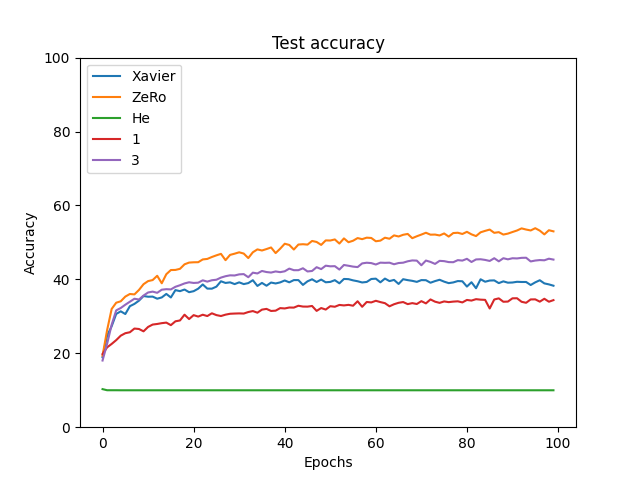
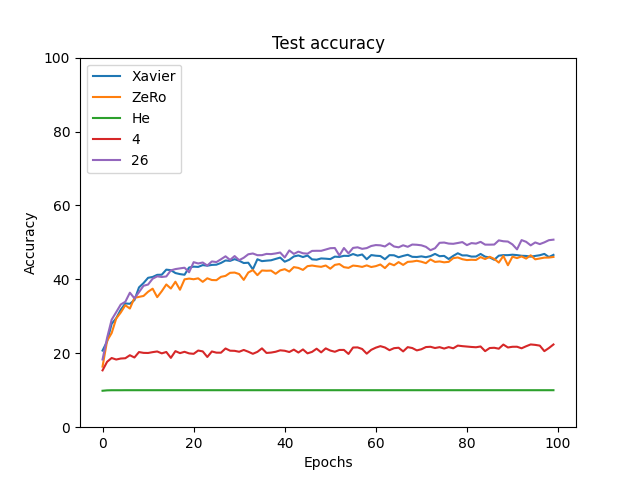
Looking at the affect of corruption on mnist dataset for accuracy

Changed region(s): [[0.1562, 0.4688, 0.875, 0.7812], [0.2188, 0.6562, 0.3125, 0.6875], [0.1875, 0.2812, 0.25, 0.3438]]

diff --git a/shared-library/src/optimization_playground_shared/dataloaders/CorrupedMnist.py b/shared-library/src/optimization_playground_shared/dataloaders/CorrupedMnist.py
@@ -1,0 +1,38 @@
+from torchvision.datasets import MNIST
+from torch.utils.data import DataLoader
+from torchvision import transforms
+from torch.utils.data import Dataset
+import torch
+import random
+
+class CorruptedMnistDataloader(Dataset):
+    def __init__(self, corruption_rate, max_train_size):
+        self.corruption_rate = corruption_rate
+        self.train_ds = MNIST("./", train=True, download=True, transform=transforms.ToTensor())
+        assert 0 <= corruption_rate and corruption_rate <= 1
+        self.len = max_train_size
+
+    def __len__(self):
+        return self.len # len(self.train_ds)
+
+    def __getitem__(self, idx):
+        X, y = self.train_ds[idx]
+   #     print((idx, self.len, self.corruption_rate * self.len))
+#        batch_corrup = int(y.shape[0]*self.corruption_rate)
+        if idx < self.corruption_rate * self.len:
+            old_y = y
+            y =  torch.randint(0, 9, (1,)).item()#[0]
+         #   print((y, old_y))
+        return (X, y)
+
+def get_dataloader(corruption_rate, max_train_size=1_000, batch_size=64):
+    train_ds = CorruptedMnistDataloader(corruption_rate, max_train_size)
+    train_loader = DataLoader(train_ds, batch_size=batch_size, shuffle=True)
+
+    test_ds = MNIST("./", train=False, download=True, transform=transforms.ToTensor())
+    test_loader = DataLoader(test_ds, batch_size=batch_size)
+
+    return (
+        train_loader,
+        test_loader
+    )

diff --git a/playground/lottery-tickets/weight-initalization/train.py b/playground/lottery-tickets/weight-initalization/train.py
@@ -10,7 +10,7 @@ from weight_initialization import set_model_weights, ZerO_Init_on_matrix, xavier
 
 EPOCHS = 100
 BATCH_SIZE = 256
-RANDOM_NETWORKS_TO_TRAIN = 5
+RANDOM_NETWORKS_TO_TRAIN = 50
 
 """
 Training logic
@@ -95,7 +95,7 @@ if __name__ == "__main__":
         set_model_weights(model, init)
         models.append(model)
 
-    for item in ProcessPool(max_workers=5).execute(evaluate, models):
+    for item in ProcessPool(max_workers=10).execute(evaluate, models):
         training_accuracy, test_accuracy, name = item["training_accuracy"], item["test_accuracy"], item["label"]        
         if not str(name).isnumeric():
             training_special.append(LinePlot(y=training_accuracy, title="Training accuracy", legend=name, x_text="Epochs", y_text="Accuracy", y_min=0, y_max=100))
@@ -118,5 +118,15 @@ if __name__ == "__main__":
     plot = SimplePlot()
     plot.plot(test_plots)
     plot.save("test_accuracy.png")
+
+    variance_count = 6
+    variances = [
+        sorted_by_testing_accuracy[int((len(sorted_by_testing_accuracy) - 1) * ((i) / variance_count))] for i in range(variance_count)
+    ]
+    print(sorted_by_testing_accuracy)
+    print(variances)
+    plot = SimplePlot()
+    plot.plot(variances)
+    plot.save("test_variance_accuracy.png")
     
     print("Okidoki -> Plotting now")

diff --git a/shared-library/src/optimization_playground_shared/models/TraningLoop.py b/shared-library/src/optimization_playground_shared/models/TraningLoop.py
@@ -1,0 +1,43 @@
+import torch
+import torch.nn as nn
+
+class TraningLoop:
+    def __init__(self, model, optimizer):
+        self.model = model
+        self.optimizer = optimizer
+        self.loss = nn.NLLLoss()
+    
+    def eval(self, dataloader):
+        (_loss, acc) = self._iterate(dataloader, train=False)
+        return acc
+    
+    def train(self, dataloader):
+        return self._iterate(dataloader, train=True)
+
+    def _iterate(self, dataloader, train=True):
+        device = torch.device("cuda:0" if torch.cuda.is_available() else "cpu") 
+        self.model.to(device)
+        total_loss = torch.tensor(0.0, device=device)
+        accuracy = torch.tensor(0.0, device=device)
+        length = 0
+        for (X, y) in dataloader:
+            X = X.to(device)
+            y = y.to(device)
+            y_pred = self.model(X)
+
+            if train:
+                loss = self.loss(y_pred, y)
+
+                self.optimizer.zero_grad()
+                loss.backward()
+                self.optimizer.step()      
+
+                total_loss += loss  
+
+            accuracy += (torch.argmax(y_pred, 1) == y).sum()
+            length += X.shape[0]
+        accuracy = (accuracy / length) * 100 
+        return (
+            total_loss,
+            accuracy
+        )

diff --git a/playground/mnist-corruption-ratio/experiment.py b/playground/mnist-corruption-ratio/experiment.py
@@ -1,0 +1,34 @@
+from optimization_playground_shared.dataloaders.CorrupedMnist import get_dataloader
+from optimization_playground_shared.models.BasicConvModel import BasicConvModel
+from optimization_playground_shared.models.TraningLoop import TraningLoop
+import torch.optim as optim
+import matplotlib.pyplot as plt
+
+
+for max_train_size in [1_000, 10_000]:
+    x_corruption = []
+    y_accuracy = []
+    for corruption_rate in range(0, 101, 1):
+        print(f"Training with {corruption_rate}% corruption")
+        train, test = get_dataloader(corruption_rate / 100, max_train_size=max_train_size)
+
+        model = BasicConvModel()
+        optimizer = optim.Adam(model.parameters())
+        iterator = TraningLoop(model, optimizer)
+
+        for _ in range(10):
+            (loss, acc) = iterator.train(train)
+
+        accuracy = iterator.eval(test)
+        print(f"Got {accuracy}% accuracy on test")
+
+        x_corruption.append(corruption_rate)
+        y_accuracy.append(accuracy.item())
+     #   break
+
+    plt.clf()
+    plt.plot(x_corruption, y_accuracy)
+    plt.xlabel(f'Corruption % with {max_train_size} MNIST dataset')
+    plt.ylabel('Accuracy %')
+    plt.savefig(f'corruption_{max_train_size}.png')
+    plt.clf()

diff --git a/shared-library/src/optimization_playground_shared/models/BasicConvModel.py b/shared-library/src/optimization_playground_shared/models/BasicConvModel.py
@@ -1,0 +1,34 @@
+from torch import optim, nn
+import torch
+import torch.nn as nn
+import torch.nn.functional as F
+import torch
+import torch.nn.functional as F
+import torch.nn as nn
+from torchvision.datasets import MNIST
+from torchvision import transforms
+
+# just using the example model from https://pytorch.org/tutorials/beginner/blitz/cifar10_tutorial.html
+class BasicConvModel(nn.Module):
+    def __init__(self):
+        super().__init__()
+        self.conv1 = nn.Conv2d(1, 12, 5)
+        self.pool = nn.MaxPool2d(2, 2)
+        self.conv2 = nn.Conv2d(12, 16, 5)
+        self.fc1 = nn.Linear(16 * 4 * 4, 256)
+        self.fc2 = nn.Linear(256, 128)
+        self.fc3 = nn.Linear(128, 63)
+        self.fc4 = nn.Linear(63, 10)
+
+    def forward(self, x):
+        x = self.pool(F.relu(self.conv1(x)))
+        x = self.pool(F.relu(self.conv2(x)))
+        x = torch.flatten(x, 1)
+        x = F.dropout(x, p=0.1)
+        x = F.relu(self.fc1(x))
+        x = F.relu(self.fc2(x))
+        x = F.dropout(x, p=0.1)
+        x = F.relu(self.fc3(x))
+        x = (self.fc4(x))
+        x = F.log_softmax(x, dim=1)
+        return x

diff --git a/shared-library/src/optimization_playground_shared/dataloaders/Mnist.py b/shared-library/src/optimization_playground_shared/dataloaders/Mnist.py
@@ -1,0 +1,14 @@
+from torchvision.datasets import MNIST
+from torch.utils.data import DataLoader
+from torchvision import transforms
+
+def get_dataloader(batch_size=64):
+    train_ds = MNIST("./", train=True, download=True, transform=transforms.ToTensor())
+    test_ds = MNIST("./", train=False, download=True, transform=transforms.ToTensor())
+    train_loader = DataLoader(train_ds, batch_size=batch_size)
+    test_loader = DataLoader(test_ds, batch_size=batch_size)
+
+    return (
+        train_loader,
+        test_loader
+    )

diff --git a/shared-library/setup.py b/shared-library/setup.py
@@ -1,0 +1,11 @@
+import setuptools
+
+print(setuptools.find_packages(where="src"))
+
+setuptools.setup(
+    name = "optimization_playground_shared",
+    version = "0.0.1",
+    author = "2xic",
+    package_dir = {"": "src"},
+    packages = setuptools.find_packages(where="src"),
+)

diff --git a/playground/mnist-corruption-ratio/readme.md b/playground/mnist-corruption-ratio/readme.md
@@ -1,0 +1,9 @@
+Randomly set a certain percentage of the dataset to a new random value, and evlauate the model on the test dataset. How much does the dataset need to be corrupt before you start to notice huge swings in the accuracy ?
+
+
+# Results
+Intresting to see how much more robuts having more data is to the same amount of corruption of the dataset
+
+![Corruption 1 000](./corruption_1000.png)
+
+![Corruption 10 000](./corruption_10000.png)

diff --git a/playground/lottery-tickets/weight-initalization/readme.md b/playground/lottery-tickets/weight-initalization/readme.md
@@ -5,3 +5,7 @@ Looks like [ZerO](https://arxiv.org/abs/2110.12661) does quite well :)
 ![test_accuracy.png](./test_accuracy.png)
 
 ![training_accuracy.png](./training_accuracy.png)
+
+It's also intresting how much variance you get in the test evaluation when you train the same network with random weights
+
+![test_variance_accuracy.png](./test_variance_accuracy.png)

diff --git a/shared-library/readme.md b/shared-library/readme.md
@@ -1,0 +1,2 @@
+Code that is often referenced, and should instead stay in a library.
+
